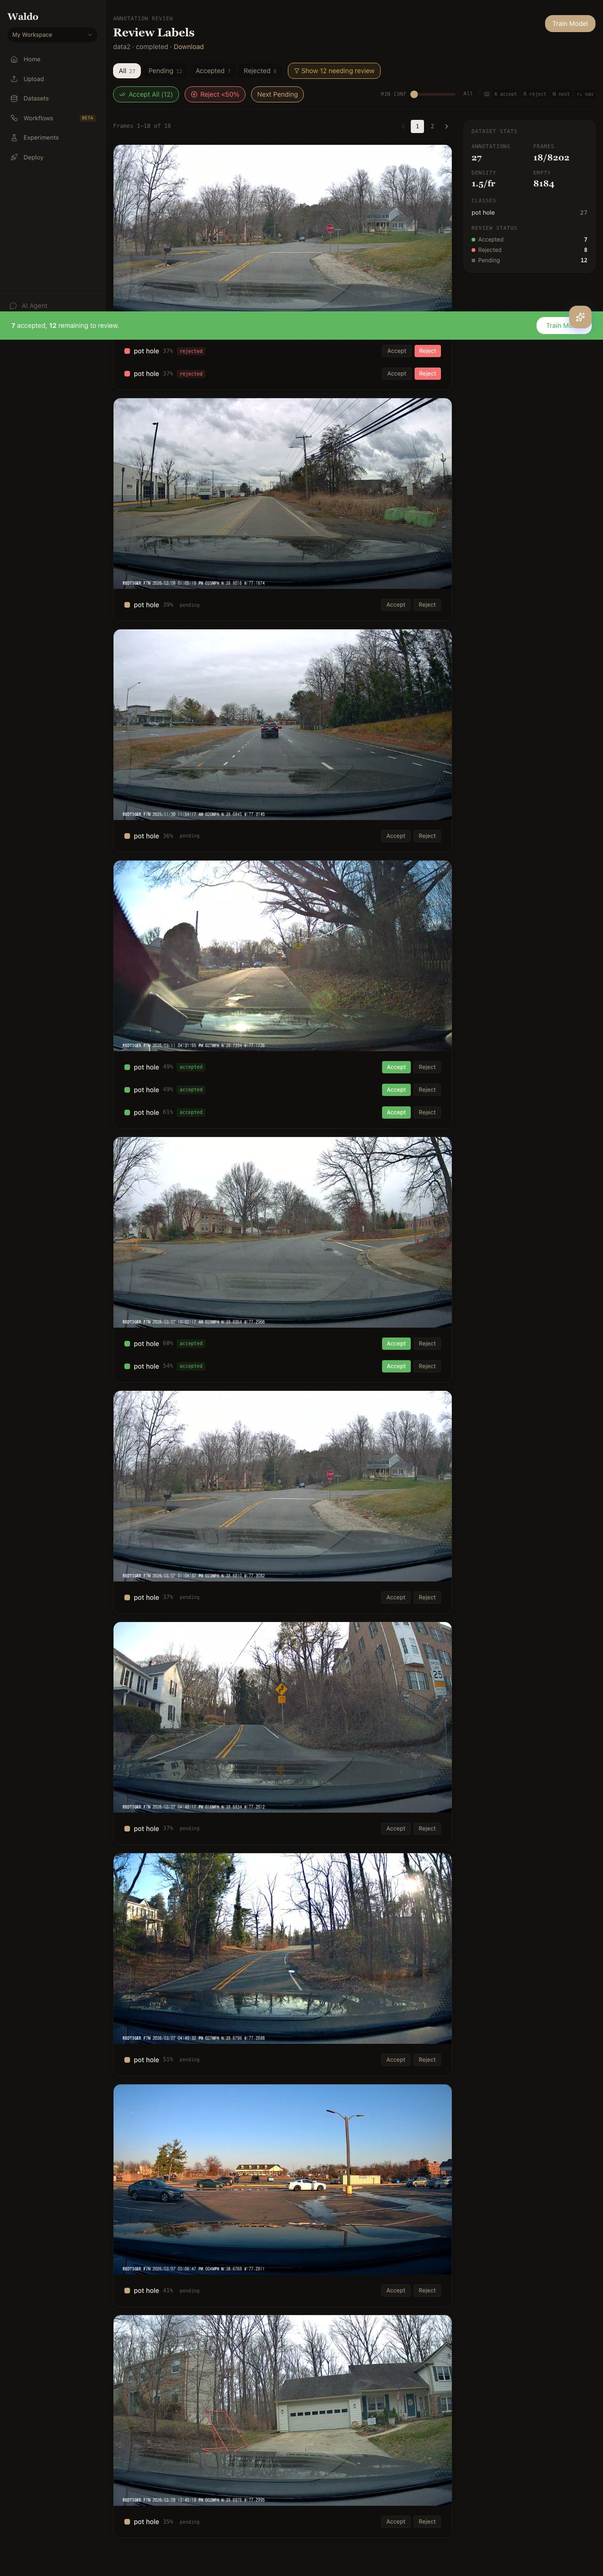
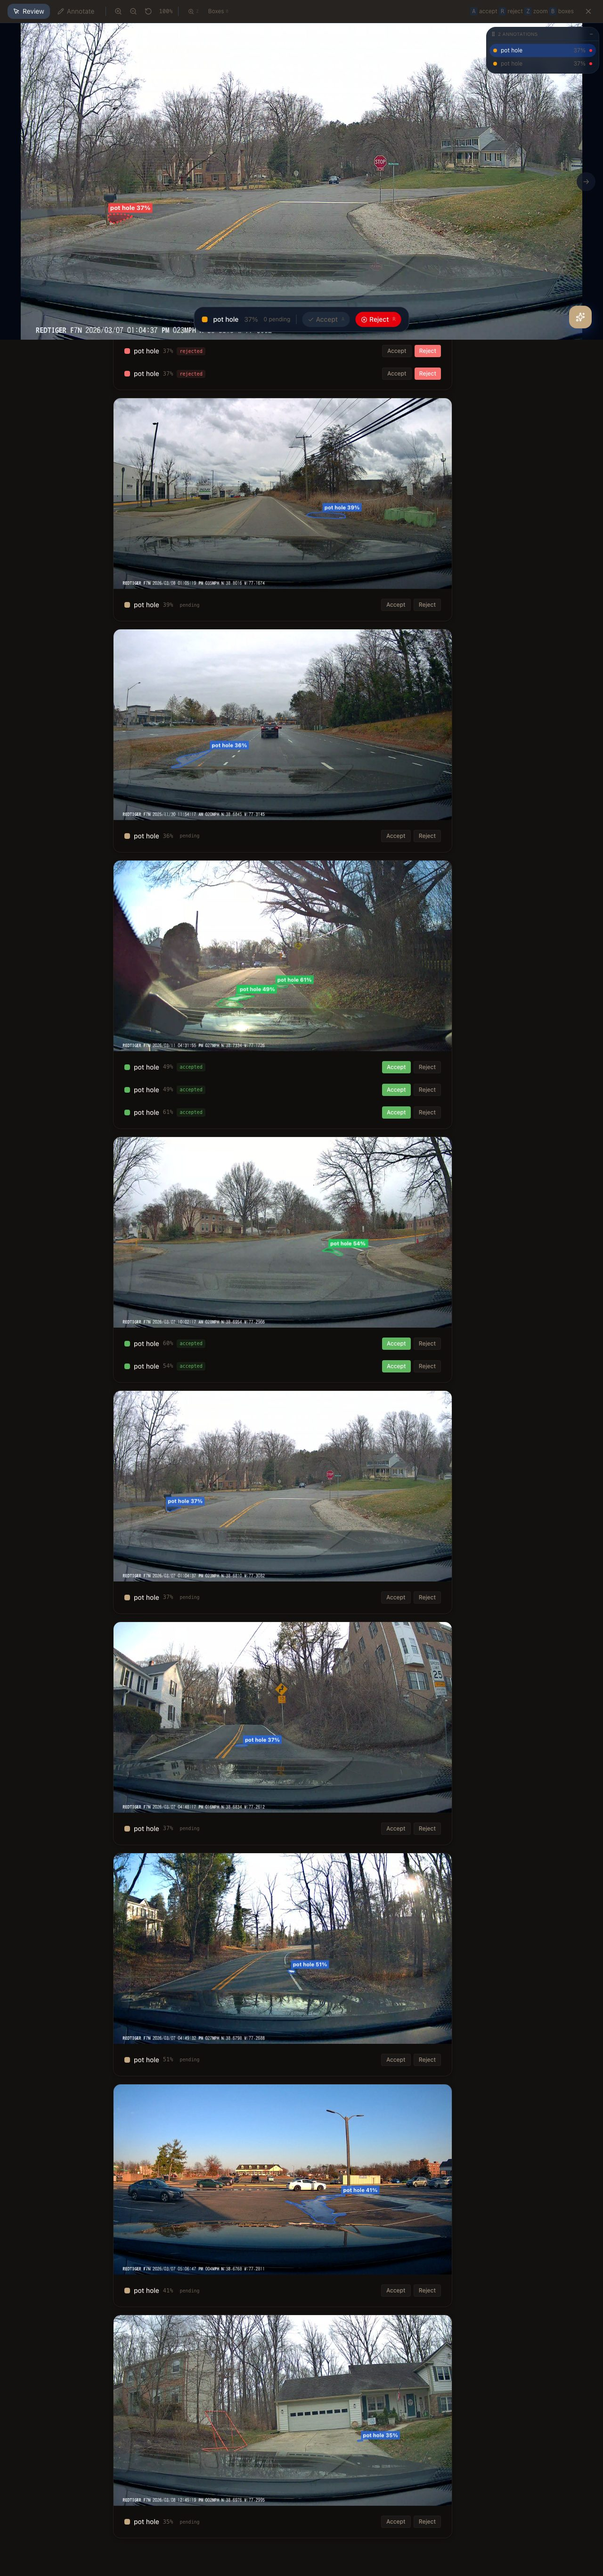
fix(docs): video playback under /waldo/ baseUrl + visible pothole labels
Videos: <video> elements in the reusable Demo component were receiving
raw "/img/..." paths, which only work when the site is mounted at "/".
Under GitHub Pages the site lives at "/waldo/", so Chrome was requesting
https://oldhero5.github.io/img/... and 404ing. Resolve src/poster via
Docusaurus useBaseUrl() — Docusaurus only rewrites <img> paths inside
markdown, not arbitrary JSX attributes.

Review screenshot: data2 (pot hole) has 27 annotations across 334
frames. The list-view canvas overlays race against <img loading="lazy">:
AnnotationCanvas measures the parent rect in its mount effect, finds
height 0, and never re-runs (deps are [annotations, hoveredId]). Result:
boxes never paint in thumbnails. Fix the screenshot script to click the
first annotated frame after load, which mounts a fresh canvas inside the
inspect modal with proper sizing. The pot hole box + label are now
visible at the top of review.jpg.

Also bumped per-test timeout to 120s so the inspect-click flow doesn't
flake.

diff --git a/docs-site/scripts/screenshots.spec.ts b/docs-site/scripts/screenshots.spec.ts
@@ -15,7 +15,41 @@
 import { test, expect, Page } from "@playwright/test";
 import * as path from "path";
 
-const PAGES: Array<{ name: string; route: string; waitFor?: string }> = [
+type PageSpec = {
+  name: string;
+  route: string;
+  waitFor?: string;
+  postLoad?: (page: Page) => Promise<void>;
+};
+
+// Wait until the review page has actually painted bounding-box overlays into
+// at least one canvas. The review canvases are absolutely positioned over each
+// frame thumbnail; we poll until one has non-transparent pixels.
+async function waitForBoxesPainted(page: Page) {
+  await page.waitForFunction(
+    () => {
+      const canvases = document.querySelectorAll("canvas");
+      for (const c of Array.from(canvases) as HTMLCanvasElement[]) {
+        if (c.width === 0 || c.height === 0) continue;
+        const ctx = c.getContext("2d");
+        if (!ctx) continue;
+        try {
+          const data = ctx.getImageData(0, 0, c.width, c.height).data;
+          for (let i = 3; i < data.length; i += 4 * 64) {
+            if (data[i] > 0) return true;
+          }
+        } catch {
+          return true; // tainted canvas — treat as painted
+        }
+      }
+      return false;
+    },
+    null,
+    { timeout: 15_000, polling: 250 }
+  );
+}
+
+const PAGES: Array<PageSpec> = [
   { name: "dashboard", route: "/" },
   { name: "upload", route: "/upload" },
   { name: "collections", route: "/collections" },
@@ -33,7 +67,26 @@ const PAGES: Array<{ name: string; route: string; waitFor?: string }> = [
   { name: "agent", route: "/agent" },
   { name: "settings", route: "/settings" },
   { name: "login", route: "/login", waitFor: 'input[type="email"]' },
-  { name: "review", route: "/review/3227d592-5401-4064-b294-49542a6a1a15" },
+  {
+    name: "review",
+    route: "/review/3227d592-5401-4064-b294-49542a6a1a15",
+    // The list-view canvases race against <img loading="lazy"> and often paint
+    // at h=0 (known UI bug). Click into the first frame to open the inspect
+    // modal, which mounts a fresh AnnotationCanvas with proper sizing.
+    postLoad: async (page) => {
+      await page.waitForLoadState("networkidle");
+      await page.waitForTimeout(1500);
+      const thumb = page.locator('img[src*="/download/frames/"]').first();
+      await thumb.waitFor({ state: "visible", timeout: 15_000 });
+      // Click the parent div (which has the onClick), not the image itself.
+      await thumb.locator("..").click({ force: true });
+      await page.waitForTimeout(2500);
+      try {
+        await waitForBoxesPainted(page);
+      } catch {}
+      await page.waitForTimeout(800);
+    },
+  },
   { name: "train", route: "/train/3227d592-5401-4064-b294-49542a6a1a15" },
   { name: "label", route: "/label/collection/c711d261-e7ef-4f5b-a2d4-7e4267ca3551" },
 ];
@@ -62,11 +115,16 @@ test.describe("Waldo screenshot capture", () => {
 
   for (const p of PAGES) {
     test(`capture ${p.name}`, async ({ page }) => {
+      test.setTimeout(120_000);
       try {
         if (p.name !== "login") await login(page);
         await page.goto(p.route, { waitUntil: "networkidle" });
         if (p.waitFor) await page.waitForSelector(p.waitFor, { timeout: 10_000 });
-        await page.waitForTimeout(1500); // let animations + lazy data settle
+        if (p.postLoad) {
+          await p.postLoad(page);
+        } else {
+          await page.waitForTimeout(1500);
+        }
         await page.screenshot({
           path: path.join(OUT_DIR, `${p.name}.png`),
           fullPage: true,

diff --git a/docs-site/src/components/Demo.tsx b/docs-site/src/components/Demo.tsx
@@ -1,4 +1,5 @@
 import React from "react";
+import useBaseUrl from "@docusaurus/useBaseUrl";
 
 type DemoProps = {
   src: string;
@@ -8,6 +9,11 @@ type DemoProps = {
 };
 
 export default function Demo({ src, poster, caption, width = "100%" }: DemoProps) {
+  // Resolve root-relative paths against the configured baseUrl
+  // (Docusaurus only rewrites Markdown ![]() syntax, not raw <video src>).
+  const resolvedSrc = useBaseUrl(src);
+  const resolvedPoster = useBaseUrl(poster ?? "");
+
   return (
     <figure
       style={{
@@ -19,8 +25,8 @@ export default function Demo({ src, poster, caption, width = "100%" }: DemoProps
       }}
     >
       <video
-        src={src}
-        poster={poster}
+        src={resolvedSrc}
+        poster={poster ? resolvedPoster : undefined}
         controls
         muted
         loop
